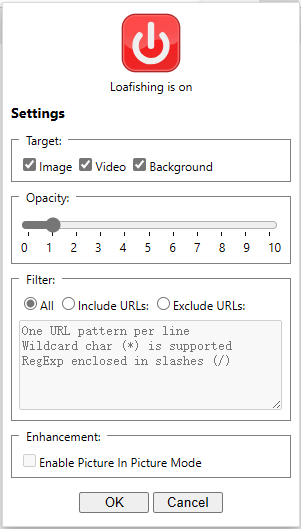
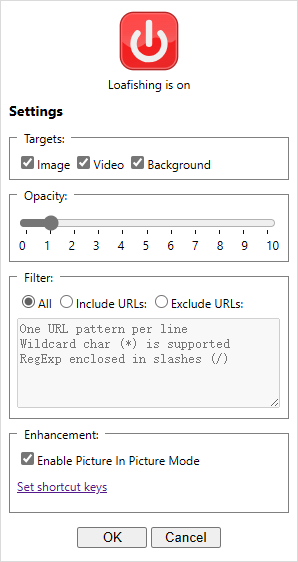
Update README.md

Changed region(s): [[0.0, 0.0, 1.0, 1.0]]

diff --git a/README.md b/README.md
@@ -25,7 +25,7 @@
 2. Include URLs ——仅应用于列表中的网站
 3. Exclude URLs ——排除列表中的网站
 
-网站列表中，每条匹配记录对应一行。匹配记录可以是完整的 URL ，也可以省略协议和路径，支持 * 号通配符。匹配记录也可以是用 / 斜杠包裹的正则表达式。
+网站列表中，每条匹配记录对应一行。匹配记录可以是完整的 URL ，也可以省略协议和路径，支持 <kbd>*</kbd> 通配符。匹配记录也可以是用 <kbd>/</kbd> 包裹的正则表达式。
 
 下面的都是合法的匹配记录：
 
@@ -43,6 +43,10 @@
 - ![button-1](assets/button-2.png)在弹出窗口中使用画中画功能
 - ![button-1](assets/button-3.png)在当前网页中关闭画中画窗口
 
+## 快捷键
+
+默认可使用 <kbd>Alt</kbd> + <kbd>Q</kbd> 来切换显示画中画窗口。进入 Set shortcut keys 页面可以为其他操作设置快捷键。
+
 ## 技巧
 
-有时候图片或视频会被其他透明的 HTML 元素遮盖，虽然图片或视频在视口中可见，但是无法响应鼠标的 Hover 事件。可以在移动鼠标时按下 Ctrl 键，扩展会尝试找到被遮挡的图片或视频元素。
+有时候图片或视频会被其他透明的 HTML 元素遮盖，虽然图片或视频在视口中可见，但是无法响应鼠标的 Hover 事件。可以在移动鼠标时按下 <kbd>Ctrl</kbd> 键，扩展会尝试找到被遮挡的图片或视频元素。
